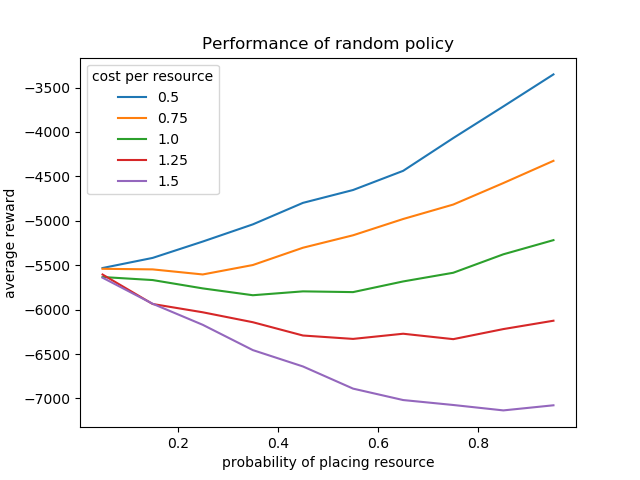
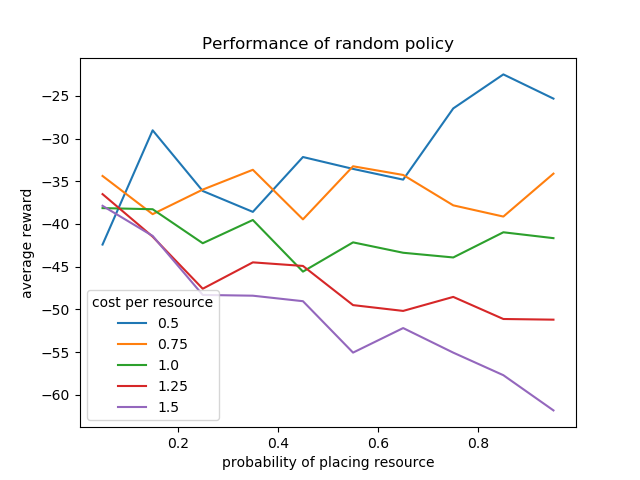
vectorize and add sparse sampling

diff --git a/src/wildfire.py b/src/wildfire.py
@@ -1,6 +1,6 @@
 import numpy as np
 import itertools
-
+np.seterr(all='raise')
 class StateRegion:
     def __init__(self, fire, dryness, fuel, wind, property):
         self.fire = fire # a Boolean representing if the area is currently on fire
@@ -32,48 +32,17 @@ class FireGrid:
     are randomly generated. We seed fires randomly, using the fire_prob
     parameter to set the probability of a fire starting/
     """
-    def __init__(self, n):
-        S = []
-        self.resource_assignment = np.zeros((n, n), dtype=bool)
+    def __init__(self, n, cost_per_resource=.8):
         self.n = n
+        self.fire = np.zeros((n, n), dtype=bool)
+        self.wind = np.random.rand(n, n)
+        self.fuel = np.random.rand(n, n)
+        self.dryness = np.random.rand(n, n)
+        self.property = 100 * np.random.rand(n, n)
+        self.resource_assignment = np.zeros((n, n), dtype=bool)
         self.reward = 0
-        self.resource_cost = 0
-        self.cost_per_resource = .8
-        self.A = self.all_possible_actions()
-        for i in range(n):
-            r = []
-            for j in range(n):
-                fire = False 
-                dryness = np.random.random_sample()
-                property = 100 * np.random.random_sample()
-                fuel = np.random.random_sample()
-                wind = np.random.random_sample()
-                r.append(StateRegion(fire, dryness, fuel, wind, property))
-            S.append(r)
+        self.cost_per_resource = cost_per_resource 
 
-        self.S = S
-
-    """
-    Helper functions to display the fires, fuel, and resources.
-    """
-    def show_fires(self):
-        symbol = {True: 'X', False: '_'}
-        for row in self.S:
-            print(' '.join([symbol[cell.fire] for cell in row]))
-
-    def show_fuel_status(self):
-        for row in self.S:
-            print(' '.join([str(round(cell.fuel, 2)) for cell in row]))
-
-    def show_wind(self):
-        for row in self.S:
-            print(' '.join([str(round(cell.wind, 2)) for cell in row]))
-
-    def all_possible_actions(self):
-        l = [False, True]
-        possible_true_false_sequences = list(itertools.product(l, repeat=self.n**2))
-        A = [np.asarray(l).reshape(self.n, self.n) for l in possible_true_false_sequences]
-        return A
 
     """
     Helper function to calculate the number of neighboring cells on fire.
@@ -96,43 +65,24 @@ class FireGrid:
     of burning fires and using resources.
     """
     def transition(self):
-        S_prime = self.S
         new_reward = 0.0 
-        for i in range(self.n):
-            for j in range(self.n):
-                if self.S[i][j].fire:
-                    # for now, cannot put out fires but only contain/prevent them
-                    percentage_burned = .2 * np.random.random_sample()
-                    if S_prime[i][j].fuel < percentage_burned:
-                        # we're out of fuel
-                        S_prime[i][j].fuel = 0
-                        S_prime[i][j].fire = False
-                    else:
-                        S_prime[i][j].fuel -= percentage_burned
-                    property_lost = S_prime[i][j].property * percentage_burned
-                    new_reward -= property_lost 
-                    S_prime[i][j].property -= property_lost 
-                else:
-                    threshold = (self.neighbors_on_fire(i, j) + 1) / 5 * self.S[i][j].dryness * self.S[i][j].fuel + .1 * np.sqrt(self.S[i][j].wind)
-                    threshold -= .5 * np.random.random_sample() * self.resource_assignment[i, j] # if using resources, can reduce threshold by .5
-                    S_prime[i][j].fire = np.random.random_sample() < threshold
-                S_prime[i][j].wind = min(self.S[i][j].wind + .1 * np.random.random_sample() - .05, .99)
-        self.S = S_prime
-        new_reward -= self.resource_cost
+        percentage_burned = .2 * np.random.rand(self.n, self.n) * self.fire
+        self.fuel = np.minimum(self.fuel - percentage_burned, np.zeros((self.n, self.n)))
+        self.fire = self.fire * (self.fuel != 0) # if out of fuel, no fire
+        new_reward -= np.sum(self.property * percentage_burned)
+        self.property -= self.property * percentage_burned
+        threshold = self.dryness * self.fuel + .1 * np.sqrt(self.wind)
+        threshold -= .5 * np.random.rand(self.n, self.n) * self.resource_assignment
+        self.fire = np.maximum(self.fire, np.random.rand(self.n, self.n) < threshold)
+        self.wind = np.clip(self.wind + .1 * np.random.randn(self.n, self.n), .01, .99)
+        new_reward -= np.sum(self.resource_assignment) * self.cost_per_resource 
         self.reward += new_reward
         return new_reward
 
 
     def observation(self):
-        O = []
-        for i in range(self.n):
-            r = []
-            for j in range(self.n):
-                r.append(ObservationRegion(self.S[i][j]))
-            O.append(r)
-        return (O, self.resource_assignment)
+        return (self.fire, self.property + 3 * np.random.randn(self.n, self.n), self.resource_assignment)
 
 
     def set_resources(self, arrangement):
         self.resource_assignment = arrangement
-        self.resource_cost = self.cost_per_resource * np.sum(self.resource_assignment) # chosen by evaluating random policy

diff --git a/src/sparse_sample.py b/src/sparse_sample.py
@@ -1,0 +1,51 @@
+from wildfire import FireGrid
+import numpy as np
+import matplotlib.pyplot as plt
+import itertools
+import copy
+
+def approximate_utility(grid):
+    return np.sum(grid.observation()[1] * grid.observation()[2])
+
+def all_possible_actions(n):
+    l = [False, True]
+    possible_true_false_sequences = list(itertools.product(l, repeat=n**2))
+    A = [np.asarray(l).reshape(n, n) for l in possible_true_false_sequences]
+    return A
+
+def sparse_sampling(A, grid, d, m=5, gamma=.95):
+    if d <= 0:
+        return (None, approximate_utility(grid))
+    best = (None, float('-inf'))
+    for a in A:
+        u = 0.0
+        for i in range(m):
+            grid_cp = copy.deepcopy(grid)
+            grid_cp.set_resources(a)
+            r = grid_cp.transition()
+            a_prime, u_prime = sparse_sampling(A, grid_cp, d-1)
+            u += (r + gamma * u_prime) / m
+        if u > best[1]:
+            best = (a, u)
+    return best
+
+def simulate_sparse(n, m, num_sims=5, simulation_depth=10, d=4):
+    print(f'm = {m}')
+    performance = []
+    A = all_possible_actions(n)
+    for i in range(num_sims):
+        grid = FireGrid(n)
+        for t in range(simulation_depth):
+            a, _ = sparse_sampling(A, grid, d, m=m)
+            grid.set_resources(a)
+            grid.transition()
+        performance.append(grid.reward)
+    return performance
+
+ms = range(2, 10, 2)
+performances = [np.mean(simulate_sparse(2, m)) for m in ms]
+plt.plot(ms, performances)
+plt.xlabel("m (number of samples)")
+plt.ylabel("average reward")
+plt.title("performance of sparse sampling")
+plt.savefig("../figures/sparse_sample.png")

diff --git a/src/random_policy.py b/src/random_policy.py
@@ -3,7 +3,7 @@ from wildfire import FireGrid
 import matplotlib.pyplot as plt
 
 
-def sim_random_policy(place_prob, cost_per_resource, grid_size=20, num_sims=50, simulation_depth=10):
+def sim_random_policy(place_prob, cost_per_resource, grid_size=2, num_sims=50, simulation_depth=10):
     rewards = []
     for iter in range(num_sims):
         grid = FireGrid(grid_size)
